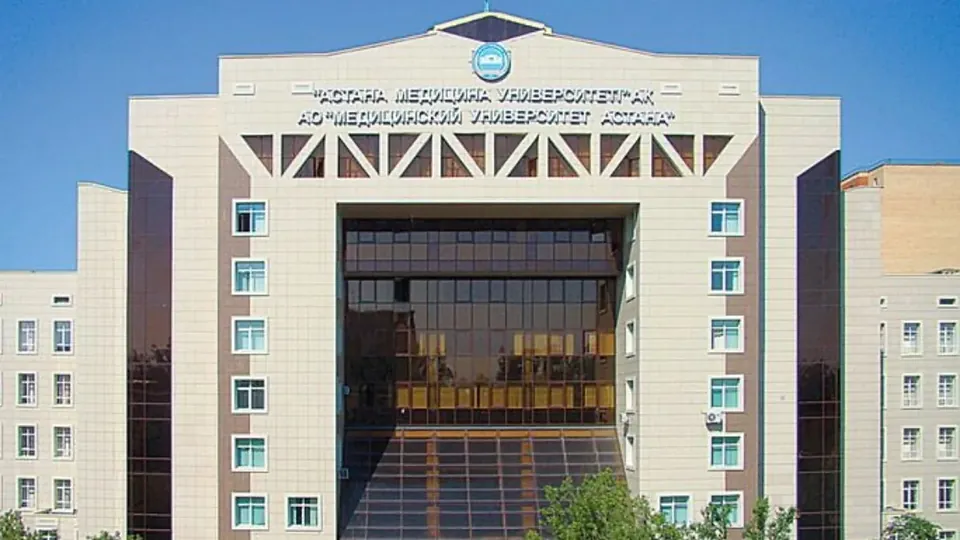
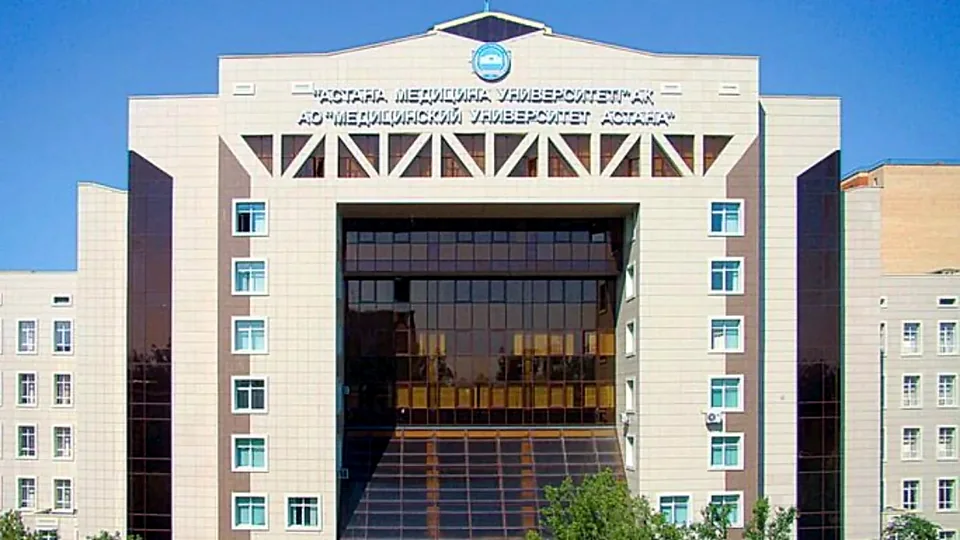
Release 4.5.2 WebP image quality fixes

diff --git a/frontend/javascript/pages/university/page-controller.js b/frontend/javascript/pages/university/page-controller.js
@@ -41,6 +41,16 @@ let detailLanguageChangedHandler = null;
 let detailFinanceResizeHandler = null;
 let detailFinanceResizeObserver = null;
 
+function cssString(value) {
+  return String(value || "").replace(/\\/g, "\\\\").replace(/"/g, '\\"');
+}
+
+function thumbnailBackgroundImage(universityId) {
+  const webp = cssString(uniThumbnailSrc(universityId, { forceFull: true }));
+  const jpg = cssString(uniThumbnailSrc(universityId, { forceFull: true, format: "jpg" }));
+  return `image-set(url("${webp}") type("image/webp"), url("${jpg}") type("image/jpeg"))`;
+}
+
 function cleanupDetailListeners() {
   if (detailProfileUpdatedHandler) {
     window.removeEventListener("profileUpdated", detailProfileUpdatedHandler);
@@ -134,7 +144,7 @@ function bindDetailActions({ id, minPrice, translatedName, university, universit
   setTxt("detailLogo", (translatedName || "U").substring(0, 2).toUpperCase());
 
   const coverEl = document.getElementById("detailCover");
-  if (coverEl) coverEl.style.backgroundImage = `url('${uniThumbnailSrc(universityId, { forceFull: true })}')`;
+  if (coverEl) coverEl.style.backgroundImage = thumbnailBackgroundImage(universityId);
 
   const logoEl = document.getElementById("detailLogo");
   if (logoEl) {

diff --git a/frontend/javascript/pages/_shared.js b/frontend/javascript/pages/_shared.js
@@ -1010,7 +1010,7 @@ export function fundingPreferenceToQueryValue(value) {
 export function uniThumbnailSrc(universityId, opts = {}) {
   const safeId = safePathSegment(universityId);
   const size = String(opts.size || "").trim().toLowerCase();
-  const format = String(opts.format || "jpg").trim().toLowerCase() === "webp" ? "webp" : "jpg";
+  const format = String(opts.format || "webp").trim().toLowerCase() === "jpg" ? "jpg" : "webp";
   const forceFull = !!opts.forceFull || size === "full" || size === "large";
   const folder = forceFull
     ? "thumbnails"

diff --git a/frontend/javascript/pages/ranking.js b/frontend/javascript/pages/ranking.js
@@ -142,7 +142,7 @@ function rankingStatusLabel(status) {
 function uniThumbnailSrc(universityId, opts = {}) {
   const safeId = safePathSegment(universityId);
   const size = String(opts.size || "").trim().toLowerCase();
-  const format = String(opts.format || "jpg").trim().toLowerCase() === "webp" ? "webp" : "jpg";
+  const format = String(opts.format || "webp").trim().toLowerCase() === "jpg" ? "jpg" : "webp";
   const forceFull = !!opts.forceFull || size === "full" || size === "large";
   const folder = forceFull
     ? "thumbnails"

diff --git a/frontend/env.js b/frontend/env.js
@@ -2,7 +2,7 @@
 window.__UNISEARCH_ENV__ = {
   "API_BASE_URL": "",
   "API_PORT": "8000",
-  "APP_VERSION": "4.5.1",
+  "APP_VERSION": "4.5.2",
   "APP_USE_PRETTY_URLS": "",
   "APP_DEBUG": ""
 };

diff --git a/scripts/audit-university-webp-visual.py b/scripts/audit-university-webp-visual.py
@@ -1,0 +1,77 @@
+from __future__ import annotations
+
+from pathlib import Path
+import sys
+
+try:
+    from PIL import Image, ImageChops, ImageStat
+except ImportError as exc:
+    raise SystemExit(
+        "Pillow is required for visual image auditing. Install dev dependencies with: pip install -r backend/requirements-dev.txt"
+    ) from exc
+
+
+REPO_ROOT = Path(__file__).resolve().parents[1]
+ASSETS_ROOT = REPO_ROOT / "backend" / "data" / "university_assets"
+FOLDERS = ("thumbnails", "thumbnails-medium", "thumbnails-small")
+MAX_MEAN_ABSOLUTE_ERROR = 18.0
+MAX_RMS_ERROR = 28.0
+
+
+def compare_pair(jpg_path: Path, webp_path: Path) -> tuple[float, float]:
+    with Image.open(jpg_path) as jpg_image, Image.open(webp_path) as webp_image:
+        jpg = jpg_image.convert("RGB")
+        webp = webp_image.convert("RGB")
+        if jpg.size != webp.size:
+            raise ValueError(f"size mismatch: JPG {jpg.size[0]}x{jpg.size[1]}, WebP {webp.size[0]}x{webp.size[1]}")
+
+        diff = ImageChops.difference(jpg, webp)
+        stat = ImageStat.Stat(diff)
+        mean_absolute_error = sum(stat.mean) / 3
+        rms_error = (sum(value * value for value in stat.rms) / 3) ** 0.5
+        return mean_absolute_error, rms_error
+
+
+def main() -> int:
+    errors: list[str] = []
+    worst: list[tuple[float, float, str]] = []
+    checked = 0
+
+    for folder in FOLDERS:
+        folder_path = ASSETS_ROOT / folder
+        for jpg_path in sorted(folder_path.glob("*.jpg")):
+            webp_path = jpg_path.with_suffix(".webp")
+            label = f"{folder}/{jpg_path.stem}"
+
+            if not webp_path.exists():
+                errors.append(f"{label}: missing WebP pair")
+                continue
+
+            try:
+                mae, rms = compare_pair(jpg_path, webp_path)
+            except Exception as exc:
+                errors.append(f"{label}: cannot decode/compare WebP pair: {exc}")
+                continue
+
+            checked += 1
+            worst.append((mae, rms, label))
+            if mae > MAX_MEAN_ABSOLUTE_ERROR or rms > MAX_RMS_ERROR:
+                errors.append(
+                    f"{label}: WebP differs too much from JPG fallback "
+                    f"(MAE {mae:.2f}, RMS {rms:.2f}; limits {MAX_MEAN_ABSOLUTE_ERROR:.2f}/{MAX_RMS_ERROR:.2f})"
+                )
+
+    if errors:
+        print("\n".join(f"error: {item}" for item in errors), file=sys.stderr)
+        return 1
+
+    worst.sort(reverse=True)
+    preview = ", ".join(f"{label} MAE {mae:.2f}/RMS {rms:.2f}" for mae, rms, label in worst[:3])
+    print(f"WebP visual audit passed for {checked} JPG/WebP pairs.")
+    if preview:
+        print(f"Worst pairs: {preview}")
+    return 0
+
+
+if __name__ == "__main__":
+    raise SystemExit(main())

diff --git a/CHANGELOG.md b/CHANGELOG.md
@@ -2,6 +2,12 @@
 
 All notable project changes should be recorded here.
 
+## 4.5.2 (2026-05-26)
+- Switched university thumbnails to WebP-first delivery while preserving explicit JPG fallback paths.
+- Updated university detail covers to use WebP/JPG `image-set` backgrounds for full-size hero images.
+- Added WebP visual similarity auditing to catch distorted or corrupted generated variants.
+- Refreshed full, medium, and small JPG/WebP cover variants for selected Kazakhstan universities with weaker full-screen image quality.
+
 ## 4.5.1 (2026-05-25)
 - Added test data for Narxoz University and expanded university data testing scripts.
 - Updated `universities.json` and `universities_translations.json` to include detailed descriptions for newly added universities and the new `fields_of_study` translation.

diff --git a/README.md b/README.md
@@ -124,6 +124,7 @@ Before committing media changes, run:
 ```bash
 npm run audit:images
 ```
+The audit checks dimensions, byte-size contracts, WebP/JPG fallback pairs, and decoded WebP visual similarity against the JPG fallback.
 
 ## API overview
 General:
@@ -470,6 +471,7 @@ Check the following:
 Canonical release history lives in [CHANGELOG.md](CHANGELOG.md).
 
 Recent releases:
+- `4.5.2` on `2026-05-26`
 - `4.5.1` on `2026-05-25`
 - `4.5.0` on `2026-05-24`
 - `4.4.0` on `2026-05-24`
